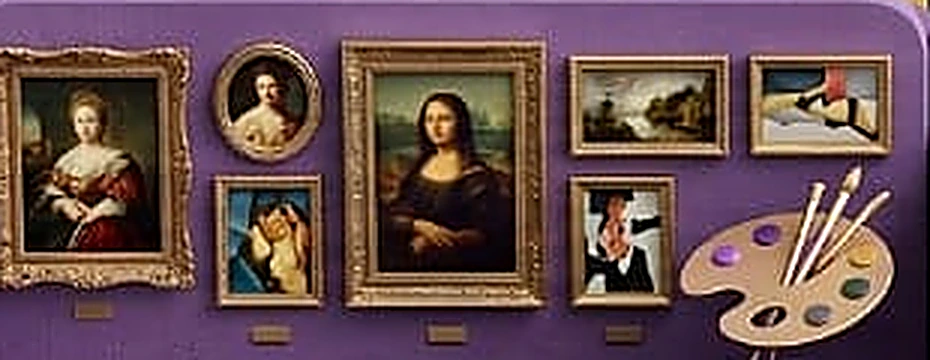
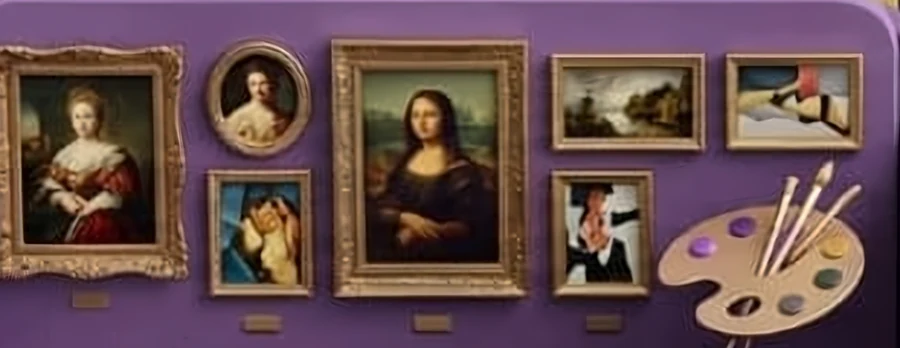
صور الديكور الأربع بتكبير ذكيّ ×٤ بدل إعادة التحجيم التي غبّشتها
- المالك: «الصورة مغبّشة». التكبير ×٣ بـLanczos مع تحديد لا يضيف تفاصيل، فبدت مغبّشة على الشاشات الحادّة.
- كل صورة قُصّت من لوحته نفسها، وأُزيل ضجيج JPEG خفيفًا، ثمّ كُبّرت ×٤ بنموذج EDSR، وحُفظت بعرض ٩٠٠ (أصغر حجمًا من قبل).
- الألوان مطابقة للأصل (متوسّط القنوات ضمن درجة واحدة)، وPSNR بعد التصغير للأصل ٣٥–٣٨.

Claude-Session: https://claude.ai/code/session_01TM3nxiXUth6d5MfRs2Myfx

diff --git a/knowledge/DECISIONS.md b/knowledge/DECISIONS.md
@@ -23,7 +23,7 @@
 - **الدرس:** المطابقة باللاحقة تحتاج شرط التفرّد نفسه الذي يحتاجه اسم الملفّ: `index.js` يطابق `a/index.js` و`b/index.js` معًا.
 ## ١٣ أكتوبر ٢٠٢٦ — v-decor-toggle-img: صور حقيقية لبطاقات «لمسات ديكورية إضافية»، بلا نصّ والاسم بالـ١٤ لغة
 - **العرض (المالك ١٣ أكتوبر):** أرسل لوحة بأربع صور (إكسسوارات فخمة، لوحات فنية، نباتات، أعد ترتيب الأثاث) وقال «حطهم في الديكور… لكن شيل الأسامي وسمهم ١٤ لغة». البطاقات كانت شرائط ألوان.
-- **القرار:** كل صورة قُصّت من لوحته فوق شريط الاسم العربيّ المطبوع فيها، فلا نصّ داخل الصورة (`assets/design/decor/*.webp`). بعدها قال «الصورة واضحة وضوح الشمس»: الصورة صافية بنسبة 8/3 بلا تظليل ولا نصّ فوقها، مكبّرة ×٣ مع تحديد، والاسم سطر تحتها، وتدرّج الألوان احتياط خلفها. الاسم من `window.t` بمفتاح `data-i18n` (موجود بالـ١٤ لغة)، والنصّ الظاهر احتياط.
+- **القرار:** كل صورة قُصّت من لوحته فوق شريط الاسم العربيّ المطبوع فيها، فلا نصّ داخل الصورة (`assets/design/decor/*.webp`). بعدها قال «الصورة واضحة وضوح الشمس»: الصورة صافية بنسبة 8/3 بلا تظليل ولا نصّ فوقها، مكبّرة ×٤ بنموذج تكبير ذكيّ (EDSR) لا بإعادة تحجيم عاديّة كانت تغبّشها، ومحفوظة بعرض ٩٠٠، والاسم سطر تحتها، وتدرّج الألوان احتياط خلفها. الاسم من `window.t` بمفتاح `data-i18n` (موجود بالـ١٤ لغة)، والنصّ الظاهر احتياط.
 - **الاختبار:** `decor-toggle-img` — الصور مربوطة وموجودة، الخلفيّة صورة فوق التدرّج، لا تظليل والاسم تحت الصورة، والمفاتيح الأربعة في كل اللغات.
 - **الدرس:** صورة فيها اسم مطبوع تكسر اللغات الأخرى؛ الاسم يبقى نصًّا فوقها.
 
